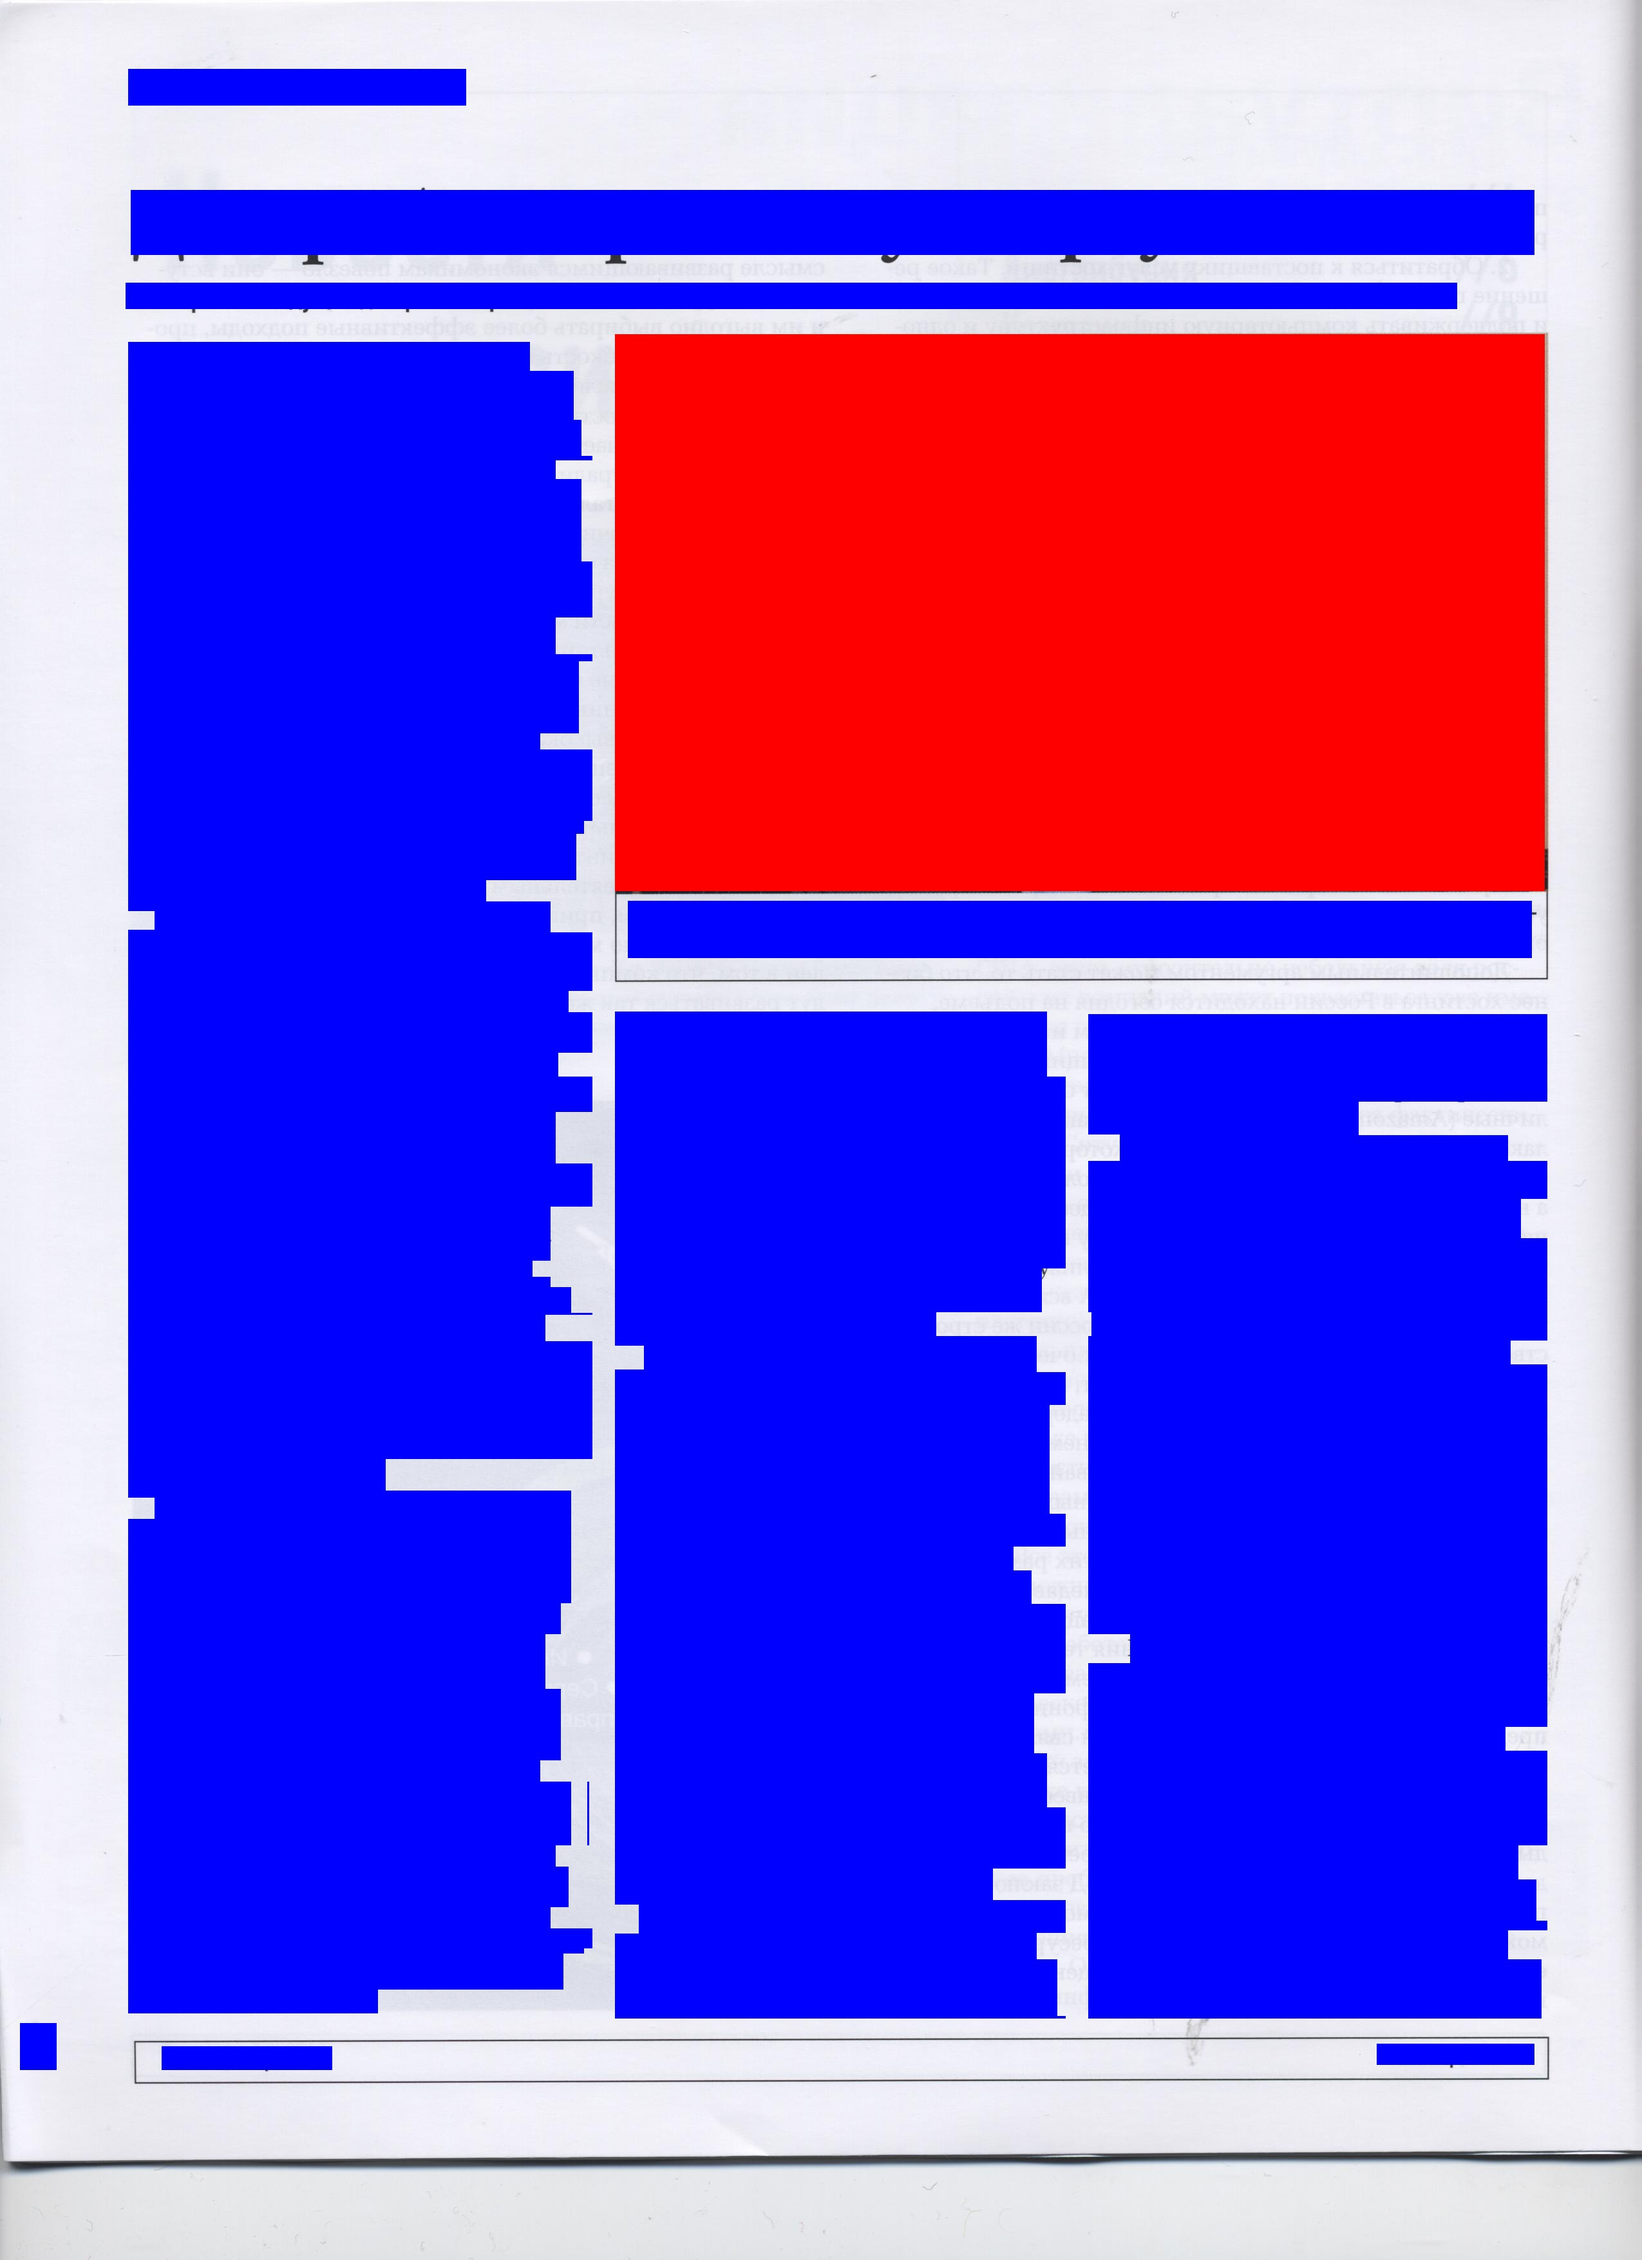
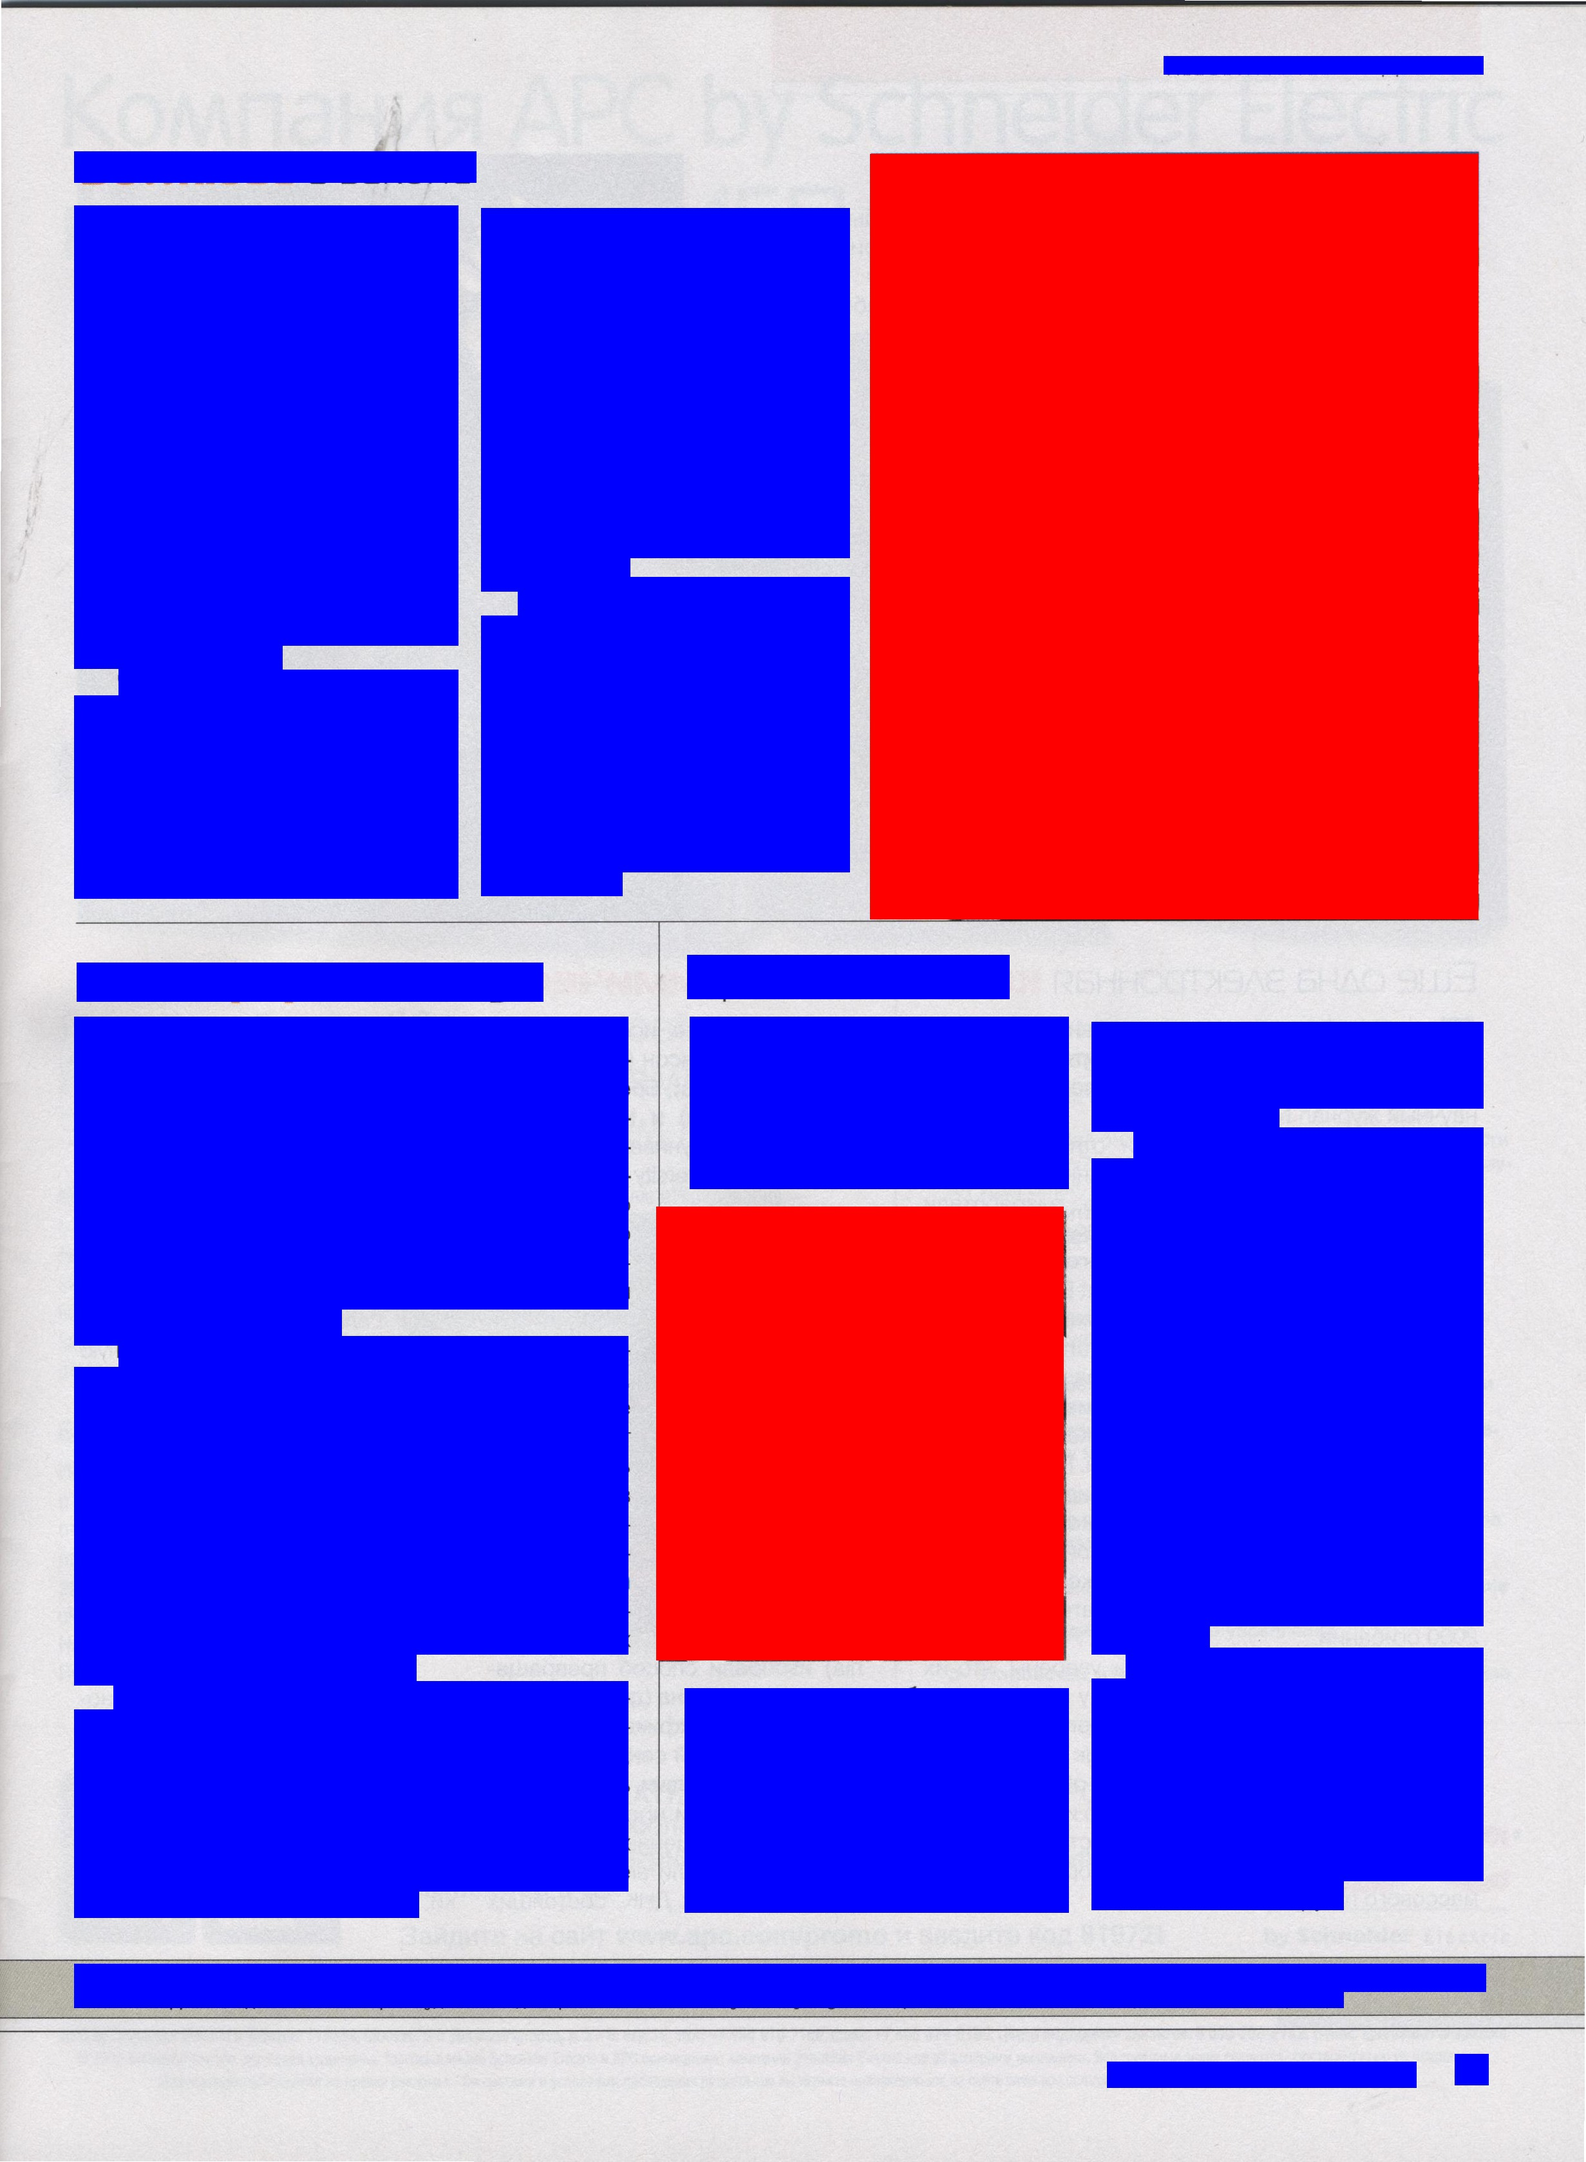
add progress to unsupervised learning project

diff --git a/14_apprentissage_non_supervise-part2/Project/report_latex/report.tex b/14_apprentissage_non_supervise-part2/Project/report_latex/report.tex
@@ -33,7 +33,7 @@ RGB des pixels) : nous allons exploiter tout cela afin de réaliser le clusterin
 \mainmatter
 \chapter{Images exploitées}
 \section{Corpus}\label{labelisation}
-Nous allons exploiter un total de 101 images prises des archives du site de l'Université de Californie \cite{uci}. 
+Nous allons exploiter un total de 102 images prises des archives du site de l'Université de Californie \cite{uci}. 
 Elles représentent chacune une page numérisée tirée de magazines et de journaux russophones \cite{dataset} :
 
 \begin{figure}[H]
@@ -183,6 +183,52 @@ La figure \ref{resultat} montre l'application du $KMeans$ sur les descripteurs $
 \label{resultat}
 \end{figure}
 
+\chapter{Post-traitement}
+
+Quand illustration présente des amas de pixels blancs (c'est la cas des images \ref{rect1} et \ref{rect2}), ces amas sont automatiquement vu comme du $fond$ à l'issu de l'étape
+de seuillage.\\
+Afin d'éviter cela, on va faire une hypothèse : toutes les illustrations sont carrés ou rectangulaires. Ce qui est souvent le cas des images et photos
+figurant dans des magazines ou des journaux.\\
+Ainsi, on va \og rectangulariser \fg toutes les composantes connexes d'$illustration$ en post-traitement ().\\
+
+\begin{figure}[H]
+\begin{center}
+\includegraphics[scale=0.06]{images/rect_1.jpg}
+\includegraphics[scale=0.06]{images/rect_1_res_hog_hsv_kmeans.jpg}
+\end{center}
+\caption{amas de pixels manquants dans les illustrations après clustering $KMeans$ des descripteurs $HOG+HSV$}
+\label{rect1}
+\end{figure}
+
+\begin{figure}[H]
+\begin{center}
+\includegraphics[scale=0.06]{images/rect_50.jpg}
+\includegraphics[scale=0.06]{images/rect_50_res_hog_hsv_kmeans.jpg}
+\end{center}
+\caption{amas de pixels manquants dans les illustrations après clustering $KMeans$ des descripteurs $HOG+HSV$}
+\label{rect2}
+\end{figure}
+
+\begin{figure}[H]
+\begin{center}
+\includegraphics[scale=0.06]{images/rect_1_res_hog_hsv_kmeans.jpg}
+\includegraphics[scale=0.06]{images/rect_1_res_hog_hsv_kmeans_2.jpg}
+\end{center}
+\caption{\og rectangularisation \fg des pixels d'$illustration$ manquants}
+\label{rect3}
+\end{figure}
+
+\begin{figure}[H]
+\begin{center}
+\includegraphics[scale=0.06]{images/rect_50_res_hog_hsv_kmeans.jpg}
+\includegraphics[scale=0.06]{images/rect_50_res_hog_hsv_kmeans_2.jpg}
+\end{center}
+\caption{\og rectangularisation \fg des pixels d'$illustration$ manquants}
+\label{rect4}
+\end{figure}
+
+\clearpage
+
 \chapter{Précision/Rappel}
 
 On applique le processus à toutes les images en procédant comme détaillé plus haut :
@@ -204,7 +250,7 @@ pour déterminer le $texte$ et les $illustrations$
 \hline
 \begin{bf}precision\end{bf} & \begin{bf}recall\end{bf}\\
 \hline
-0.55 & 0.90\\
+0.68 & 0.76\\
 \hline
 \end{tabular}
 \end{center}
@@ -220,9 +266,9 @@ pour déterminer le $texte$ et les $illustrations$
 \multirow{\begin{bf}Descripteurs\end{bf}} & \multicolumn{2}{c|}{\begin{bf}KMeans\end{bf}} & \multicolumn{2}{c|}{\begin{bf}NMF\end{bf}}\\
 \cline{2-5} & \begin{bf}precision\end{bf} & \begin{bf}recall\end{bf} & \begin{bf}precision\end{bf} & \begin{bf}recall\end{bf}\\
 \hline
-$Laplacien+HSV$ & 0.63 & 0.55 & 0.38 & 0.40\\
+$Laplacien+HSV$ & 0.75 & 0.55 & 0.50 & 0.46\\
 \hline
-$HOG+HSV$ &  0.64 & 0.61 & 0.39 & 0.47\\
+$HOG+HSV$ &  0.75 & 0.60 & 0.48 & 0.50\\
 \hline
 \end{tabular}
 \end{center}
@@ -238,9 +284,9 @@ $HOG+HSV$ &  0.64 & 0.61 & 0.39 & 0.47\\
 \multirow{\begin{bf}Descripteurs\end{bf}} & \multicolumn{2}{c|}{\begin{bf}KMeans\end{bf}} & \multicolumn{2}{c|}{\begin{bf}NMF\end{bf}}\\
 \cline{2-5} & \begin{bf}precision\end{bf} & \begin{bf}recall\end{bf} & \begin{bf}precision\end{bf} & \begin{bf}recall\end{bf}\\
 \hline
-$Laplacien+HSV$ & 0.83 & 0.65 & 0.53 & 0.58\\
+$Laplacien+HSV$ & 0.73 & 0.78 & 0.81 & 0.58\\
 \hline
-$HOG+HSV$ & 0.87 & 0.66 & 0.75 & 0.62\\
+$HOG+HSV$ & 0.74 & 0.78 & 0.80 & 0.66\\
 \hline
 \end{tabular}
 \end{center}
@@ -251,9 +297,9 @@ $HOG+HSV$ & 0.87 & 0.66 & 0.75 & 0.62\\
 \clearpage
 
 On observe les meilleurs résultats pour un partitionnement $KMeans$ du descripteur $HOG+HSV$. Ainsi, la precision moyenne (toute image et toute classe confondue) est de 
-\begin{bf}0.68\end{bf} et le rappel moyen de \begin{bf}0.72\end{bf}.\\
-La figure \ref{meilleur_precision} présente l'image donnant la meilleure précision (\begin{bf}0.853\end{bf}).\\
-La figure \ref{meilleur_rappel} présente l'image donnant le meilleur rappel (\begin{bf}0.902\end{bf}).\\
+\begin{bf}0.73\end{bf} et le rappel moyen de \begin{bf}0.71\end{bf}.\\
+La figure \ref{meilleur_precision} présente l'image donnant la meilleure précision (\begin{bf}0.906\end{bf}).\\
+La figure \ref{meilleur_rappel} présente l'image donnant le meilleur rappel (\begin{bf}0.893\end{bf}).\\
 
 \begin{figure}[H]
 \begin{center}
@@ -267,9 +313,9 @@ La figure \ref{meilleur_rappel} présente l'image donnant le meilleur rappel (\b
 
 \begin{figure}[H]
 \begin{center}
-\includegraphics[scale=0.25]{images/50.jpg}
-\includegraphics[scale=0.06]{images/50_res_hog_hsv_kmeans.jpg}
-\includegraphics[scale=0.25]{images/50_m.jpg}
+\includegraphics[scale=0.25]{images/4.jpg}
+\includegraphics[scale=0.06]{images/4_res_hog_hsv_kmeans.jpg}
+\includegraphics[scale=0.25]{images/4_m.jpg}
 \end{center}
 \caption{image donnant le rappel moyen maximal - en bas sa vérité-terrain}
 \label{meilleur_rappel}
@@ -316,7 +362,8 @@ respectifs sont illustrés dans les figures \ref{test1} \ref{test2} \ref{test3}:
 Le code $Python$ ayant permis les calculs présentés, se constitue de trois fichiers :
 \begin{description} % listes descriptives
 
-\item[$utils.py$ :] Ce fichier contient les fonctions pour le découpage de l'image en patch.
+\item[$utils.py$ :] Ce fichier contient les fonctions pour le découpage de l'image en patch et le post-processing, la dernière utilise
+\begin{itshape}scikit-image\end{itshape} \cite{scikit-image}.
 \item[$functions.py$ :] Ce fichier contient les fonctions permettant l'extraction des features. Ces fonctions utilisent $OpenCV$ \cite{opencv_library} ainsi que $scikit-learn$ \cite{scikit-learn}
 \item[$run.py$ :] Ce fichier est le fichier principal. Il télécharge le dataset, le decompresse et lance le processus de clusterisation. Il affiche aussi les performances
 en précision/rappel à partir des images de vérité terrain. Il contient aussi les différents paramètres comme la taille de voisinage, la nature des descripteurs...
@@ -330,9 +377,9 @@ de fenêtre, les descripteurs, etc.. sont à modifier au tout début du fichier.
 
 \chapter{Résultats}
 
-Parmi le dataset de 101 fichiers, certains au nombre de 5 ne presentent pas réellement de fond blanc, ce qui fausse l'étape de seuillage qui elle suppose l'existence d'une telle
+Parmi le dataset de 102 fichiers, cinq ne presentent pas réellement de fond blanc, ce qui fausse l'étape de seuillage qui elle suppose l'existence d'une telle
 propriété.\\
-Nous présentons donc ci-après les résultats sur 96 fichiers avec les descripteurs $HOG+HSV$ décomposés par $KMeans$ :\\
+Nous présentons donc ci-après les résultats sur 97 fichiers avec les descripteurs $HOG+HSV$ décomposés par $KMeans$ :\\
 
 \begin{figure}[H]
 \begin{center}

diff --git a/14_apprentissage_non_supervise-part2/Project/run.py b/14_apprentissage_non_supervise-part2/Project/run.py
@@ -13,8 +13,8 @@ from functions import *
 
 # parameters #
 list_mask = glob.glob('data_papers/*_m.*')
-descr = ['hog','hsv']
-decomposition = 'kmeans'
+descr = ['grad','hsv']
+decomposition = 'nmf'
 flatten_or_not = False
 color_mapping = {0:[255,0,0],1:[0,0,255],2:[255,255,255]}
 resizing_factor = 4
@@ -121,10 +121,13 @@ for file_mask in list_mask:
     color_mapping[sorted_labels[0]] = [255,0,0] # red for class 0 (illustration) 
     color_mapping[sorted_labels[1]] = [0,0,255] # blue for class 1 (texte) 
 
-    ### compute prediction (class 0,1, or 2) for each pixel
+    ### post-processing to make illusration "square"
     image_result = 255*np.ones((h,w,c))
     for n,(j,i) in enumerate(izip(list_patchs_y,list_patchs_x)):
         image_result[j:j+roi_size_y,i:i+roi_size_x,:] = color_mapping[ind[n]]
+    image_result = post_processing(image_result)
+
+    ### compute prediction (class 0,1, or 2) for each pixel
     prediction_   = np.zeros((h,w))
     prediction_   = prediction_   + np.where(np.linalg.norm(image_result-[255,0,0],axis=2)==0,1,0)
     prediction_   = prediction_   + np.where(np.logical_and(np.linalg.norm(image_result-[0,0,255],axis=2)!=0,np.linalg.norm(image_result-[255,0,0],axis=2)!=0),2,0)

diff --git a/14_apprentissage_non_supervise-part2/Project/utils.py b/14_apprentissage_non_supervise-part2/Project/utils.py
@@ -3,6 +3,9 @@ import numpy as np
 import matplotlib.pyplot as plt
 from itertools import izip
 from scipy import misc
+from skimage import measure
+import pymorph
+
 
 
 def cut_images(image,roi_size_x,roi_size_y,overlap_x,overlap_y,flatten_or_not,mask):
@@ -64,15 +67,16 @@ def plot_histo(img,filename,hsv=False):
 
 def post_processing(image):
     # get illustration pixel
-    illu = 255*(np.sum(image -[255,0,0],axis=2)<50).astype(np.uint8)
+    illu = 255*(np.sum((image -[255,0,0])**2,axis=2)<10).astype(np.uint8)
+    bbox = pymorph.blob(measure.label(illu),'boundingbox','data')
     illu_out = illu.copy()
-    (cnts, _) = cv2.findContours(illu.copy(), cv2.RETR_TREE, cv2.CHAIN_APPROX_SIMPLE)
-    for contour in cnts:
-	x1 = np.min(contour[:,0,0])+1
-	x2 = np.max(contour[:,0,0])-1
-	y1 = np.min(contour[:,0,1])+1
-	y2 = np.max(contour[:,0,1])-1
-        illu_out[x1:x2,y1:y2]=255
+    for l in bbox:
+	x1 = l[0]
+	y1 = l[1]
+	x2 = l[2]
+	y2 = l[3]
+        if ((y2-y1)<image.shape[0]/2) | ((x2-x1)<image.shape[1]/2):
+            illu_out[y1:y2,x1:x2]=255
     image_post = image.copy()
     image_post[illu_out>0,:] = [255,0,0]
     return image_post
